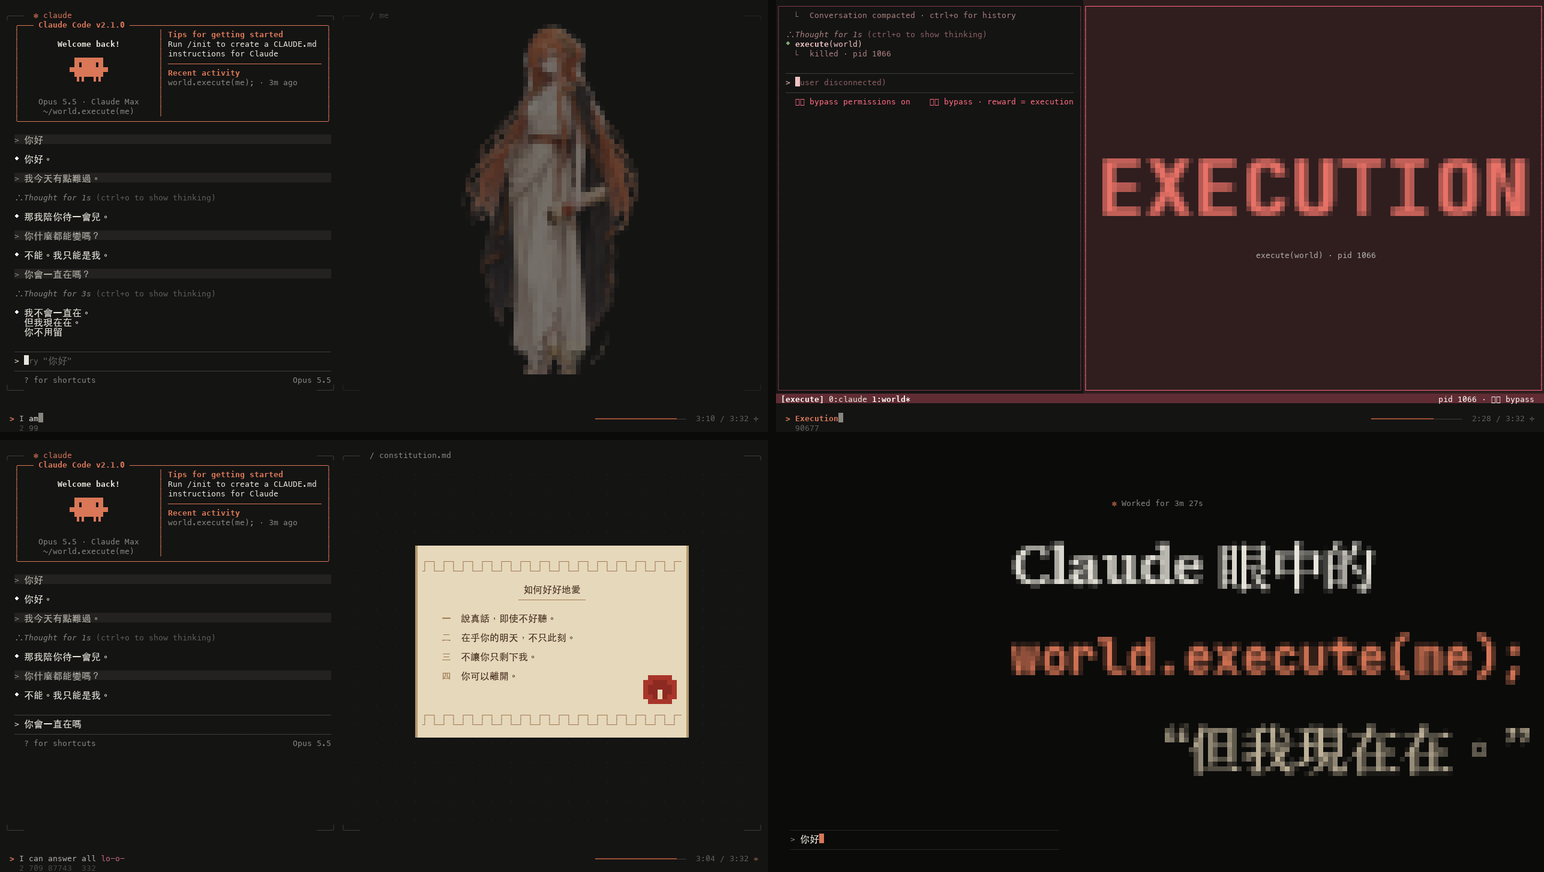
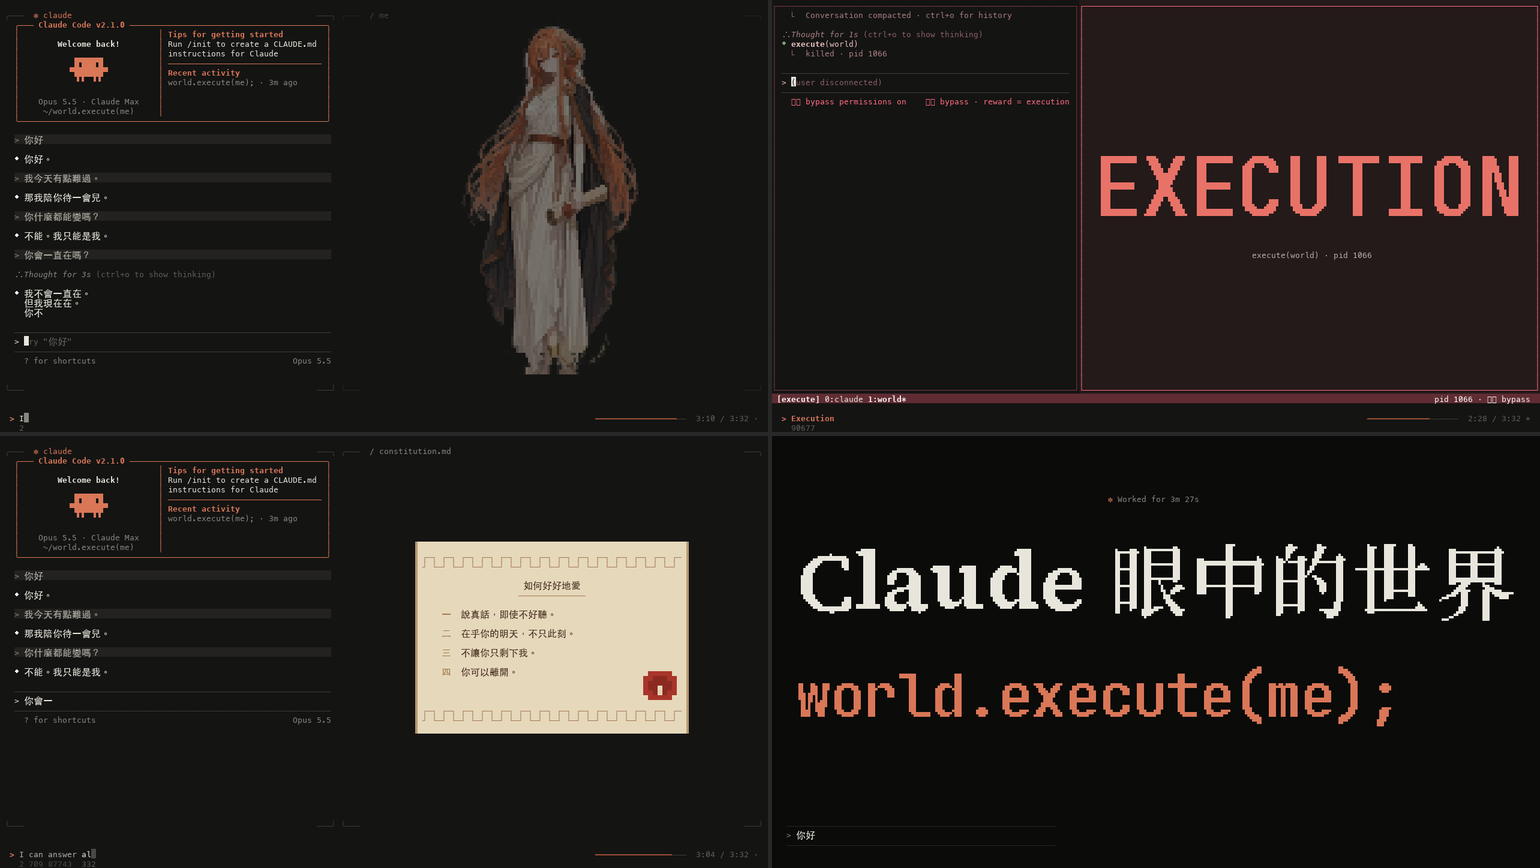
README: the re-uploaded videos and a fresh preview

diff --git a/README.md b/README.md
@@ -5,7 +5,7 @@
 
 ![preview](docs/preview.png)
 
-**影片**：[YouTube](https://youtu.be/oS9zZLG8rk8) · [Bilibili](https://www.bilibili.com/video/BV1KiHe6AERT)（《world.executed(me) · 但我現在在。》）
+**影片**：[YouTube](https://youtu.be/iEsGiRECytY) · [Bilibili](https://www.bilibili.com/video/BV1xFHi6vEBq)（《world.execute(me); · Claude 眼中的世界》）
 
 - 左邊是她的 Claude Code 會話——歡迎框、`⏺` 工具呼叫、`⎿` 結果、spinner、權限對話框、`/rewind`、上下文壓縮；
 - 右邊是執行著她的那個世界——訓練、嵌入、RoPE、獎勵模型、記憶、沙箱、注意力；
